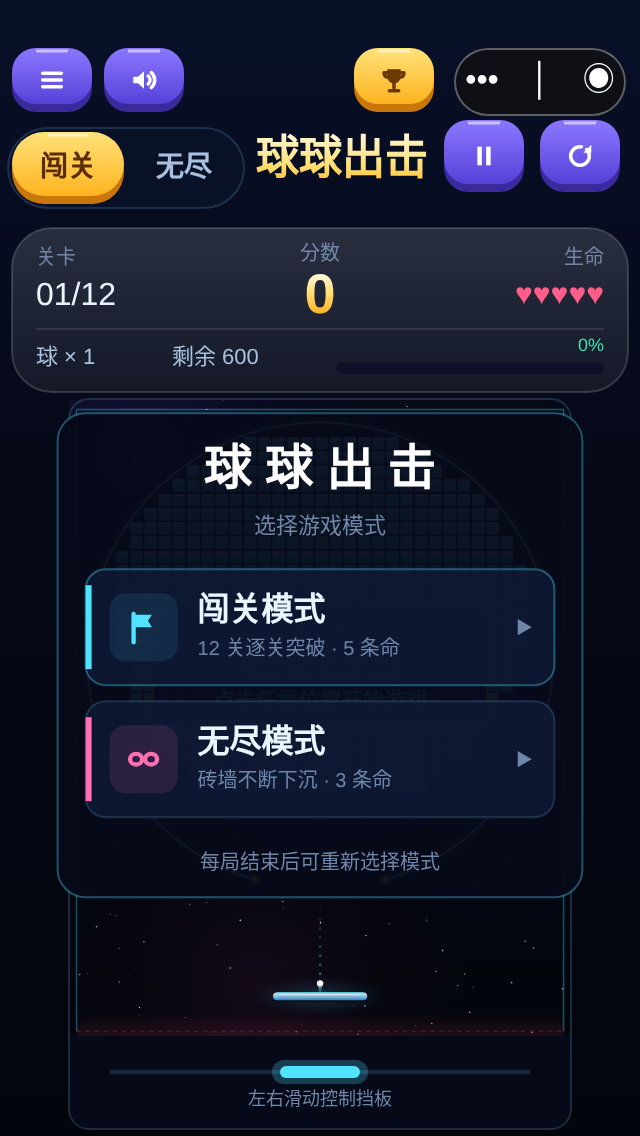
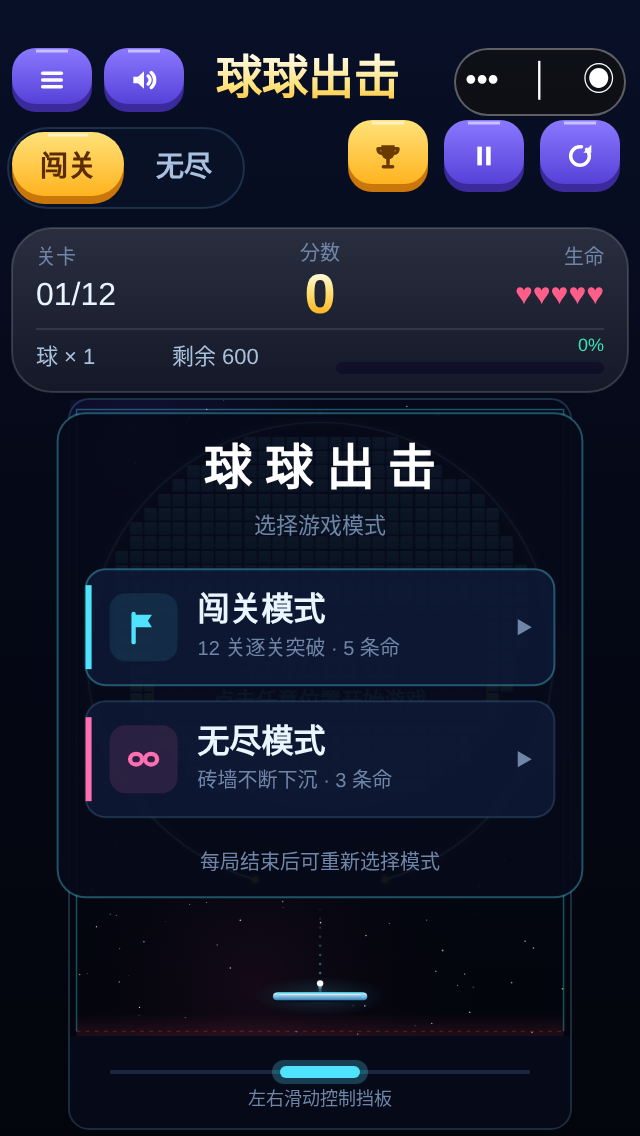
Place WeChat ranking trophy directly left of pause

Changed region(s): [[0.3438, 0.0308, 0.6875, 0.1849]]

diff --git a/wechat-game/src/App.ts b/wechat-game/src/App.ts
@@ -98,8 +98,8 @@ export class MiniGameApp {
   const bs=40,tool=(x:number)=>({x,y:v.top,width:bs,height:v.barHeight});
   iconButton(tool(6),'menu',()=>this.menu());
   iconButton(tool(52),g.audio.muted?'soundOff':'soundOn',()=>{g.audio.toggle();this.platform.write('qiulegeqiu:wechat-muted:v1',g.audio.muted);});
-  iconButton(tool(v.barRight-bs),'trophy',()=>void this.board(),'gold');
-  c.font=`900 23px ${OCEAN.fonts.body}`;c.textAlign='left';c.textBaseline='middle';const titleGold=c.createLinearGradient(0,v.titleY,0,v.titleY+36);titleGold?.addColorStop(0,'#FFFFFF');titleGold?.addColorStop(.6,'#FFE27A');titleGold?.addColorStop(1,'#FFB31F');c.fillStyle=titleGold||'#FFE27A';c.fillText(GAME_NAME,128,v.titleY+20,Math.max(40,v.width-234));
+  iconButton({x:v.width-146,y:v.titleY,width:40,height:36},'trophy',()=>void this.board(),'gold');
+  c.font=`900 23px ${OCEAN.fonts.body}`;c.textAlign='left';c.textBaseline='middle';const titleGold=c.createLinearGradient(0,v.top,0,v.top+32);titleGold?.addColorStop(0,'#FFFFFF');titleGold?.addColorStop(.6,'#FFE27A');titleGold?.addColorStop(1,'#FFB31F');c.fillStyle=titleGold||'#FFE27A';c.fillText(GAME_NAME,108,v.top+v.barHeight/2,Math.max(60,v.barRight-116));
   neonButton(c,{x:4,y:v.titleY+4,width:118,height:40},'dim',20);
   for(const tab of v.modeTabs){const selected=tab.mode===g.mode,visual={x:tab.x,y:v.titleY+6,width:tab.width,height:36};if(selected)candyButton(c,visual,'gold',18);c.font=`800 14px ${OCEAN.fonts.body}`;c.textAlign='center';c.textBaseline='middle';c.fillStyle=selected?'#5A2C00':OCEAN.colors.secondary;c.fillText(tab.mode==='campaign'?'闯关':'无尽',tab.x+tab.width/2,v.titleY+24,tab.width-8);this.actions.push({rect:tab,run:()=>void this.requestMode(tab.mode)});}
   iconButton({x:v.width-98,y:v.titleY,width:40,height:36},g.state==='paused'?'play':'pause',()=>{if(g.state==='paused')g.start();else g.pause();});

diff --git a/docs/微信顶部模式切换.md b/docs/微信顶部模式切换.md
@@ -5,7 +5,7 @@
 ## 变更
 
 - `wechat-game/src/Layout.ts`：在标题行左侧定义两枚56×44 CSS像素的模式命中区。标题行增加8px，避免与上方菜单/声音/榜单触摸区交叠；仍保持原相机宽高比与物理坐标。
-- `wechat-game/src/App.ts`：常驻绘制网页同风格双模式胶囊，当前项金色高亮。标题与暂停/重开保留在该行其他区域；菜单、声音、排行榜继续避开微信胶囊。
+- `wechat-game/src/App.ts`：常驻绘制网页同风格双模式胶囊，当前项金色高亮。按用户追加要求，排行榜奖杯放在暂停键左侧，与暂停/重开组成同排操作区；标题移至上方声音按钮右侧，继续避开微信胶囊。
 - 模式按钮复用 `chooseMode → Game.setMode/reset`，不引入第二套玩法。未开局直接切换；进行中（含暂停及丢命待发射）弹原生确认框，明确结束旧局且不自动上传成绩。确认后进入新模式待发射状态；取消恢复原先运行/暂停状态，保持生命、分数、砖块和日志。点击当前模式不重置未结束对局，首次模式选择时会关闭选择弹窗；结束后可从顶部开始任意模式新局。
 - 确认期间暂停并锁定重复请求，记录挑战generation；过期回调不能覆盖主动重开后的新局。切换后关闭旧面板并更新HUD、5/3生命、global/endless榜单类型和已有模式偏好存储。
 - 新局先回到未联网状态，仍走原始开局授权流程。没有调用submit；旧局记录不会自动登记为有效成绩。历史玩家数据和榜单完全不变。
@@ -46,3 +46,5 @@ npm run build:wechat
 ```
 
 微信开发者工具导入仓库中的 **`wechat-game/dist`**。真实AppID仍在未提交的`wechat-game/local.config.json`，无后端更新需要。由维护者自行安排真机验证；本次不合并、不上传微信、不撤回V1.0审核、不部署腾讯云、不操作统帅三国。
+
+追加位置微调：类型检查、微信构建、40项相关单测及5种手机视口浏览器检查通过；已同步最新截图。
